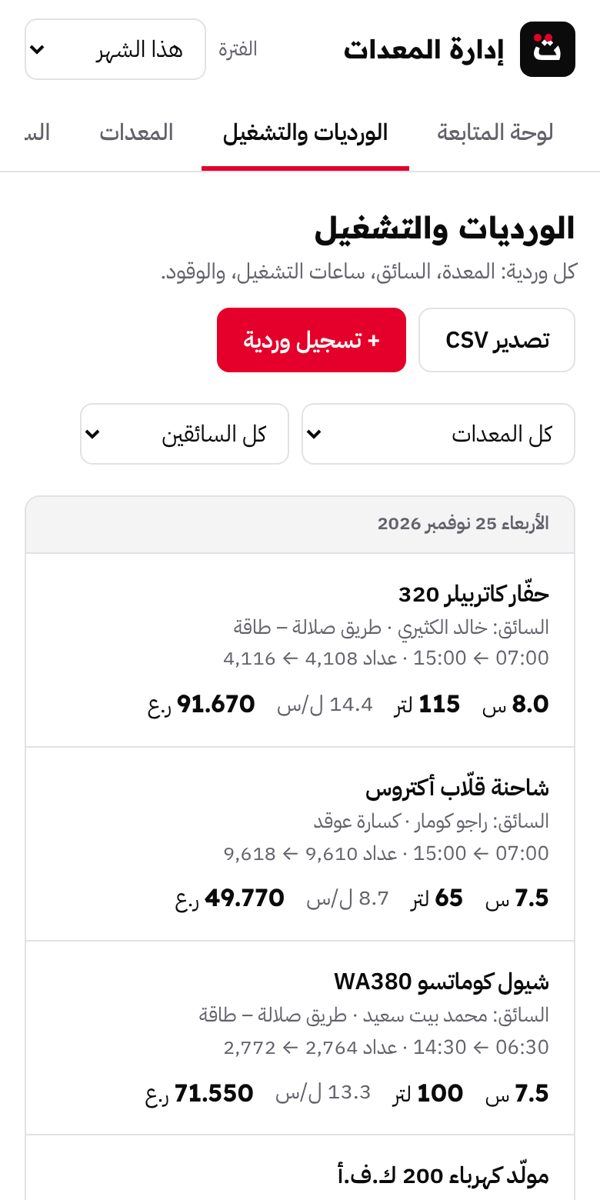
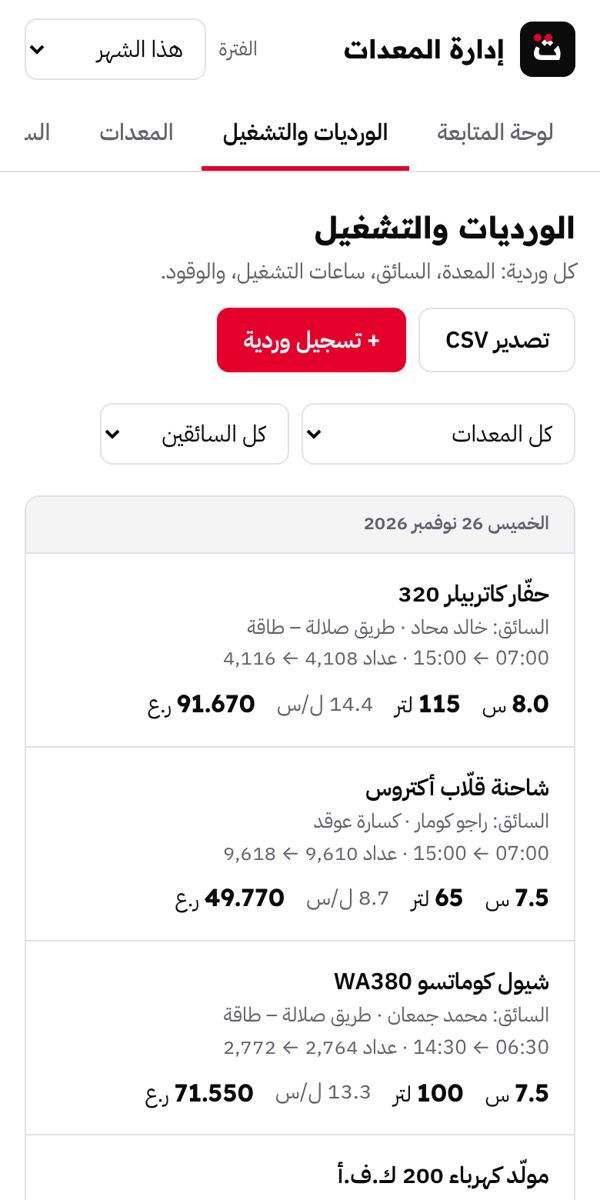
«أعمالنا»: صورة توضيحية للمساعد الذكي، وتعديل أسماء السائقين (#20)
* Show the Smart Employee Assistant as a description only

Claude-Session: https://claude.ai/code/session_01PV9wLXex1DPAYEeMsAfiQh

* Illustrate the Smart Employee Assistant with employee messages and AI analysis

Claude-Session: https://claude.ai/code/session_01PV9wLXex1DPAYEeMsAfiQh

* Update driver names in the equipment screenshot

Claude-Session: https://claude.ai/code/session_01PV9wLXex1DPAYEeMsAfiQh

---------

diff --git a/index.html b/index.html
@@ -275,6 +275,20 @@ footer{border-top:1px solid var(--rule);font-size:14px;color:var(--grey);padding
 .wk-visit{align-self:flex-start;margin-top:6px;font-weight:600;color:var(--red);text-decoration:none}
 .wk-visit:hover{text-decoration:underline}
 .wk-visit:focus-visible{outline:3px solid var(--red);outline-offset:3px}
+.wk-art{line-height:0;border-radius:12px;overflow:hidden;box-shadow:0 16px 36px rgba(0,0,0,.14)}
+.wk-art svg{display:block;width:100%;height:auto;direction:ltr}
+.wk-art text{font-family:"IBM Plex Sans Arabic",system-ui,sans-serif}
+.wk-art .ia-tag{font-size:13px;font-weight:600;fill:#ff5a76}
+.wk-art .ia-who{font-size:12px;fill:#8b8b93}
+.wk-art .ia-txt{font-size:15px;font-weight:500;fill:#f2f2f3}
+.wk-art .ia-ai{font-family:"Readex Pro",sans-serif;font-size:34px;font-weight:700;fill:#fff}
+.wk-art .ia-cap{font-size:16px;font-weight:600;fill:#f2f2f3}
+.wk-art .ia-sub{font-size:13px;fill:#a3a3ab}
+.wk-art .ia-card-t{font-size:15px;font-weight:700;fill:#0b0b0c}
+.wk-art .ia-card-w{font-size:15px;font-weight:700;fill:#f2f2f3}
+.wk-art .ia-ok{font-size:11px;font-weight:600;fill:#1f8a4c}
+.wk-art .ia-k{font-size:12px;font-weight:600;fill:#a3a3ab}
+.wk-art .ia-dl{font-size:13px;font-weight:600;fill:#ff5a76}
 .work-cap{margin:8px 0 0;font-size:14px;color:var(--grey)}
 @media(max-width:900px){.wk{grid-template-columns:minmax(0,1fr)}}
 @media(max-width:600px){.wk-shots{grid-template-columns:minmax(0,1fr)}.wk-phone{justify-self:center;width:min(240px,66%)}}
@@ -466,12 +480,74 @@ dd{margin-bottom:12px}
           <h3 data-k="wah">مساعد الموظف الذكي</h3>
           <p data-k="wad">يصيغ الخطابات والتعاميم الرسمية، ويحلّل القرارات ويستخرج التكليفات والمهل، بذكاء اصطناعي يعمل داخل شبكة الجهة.</p>
           <ul class="wk-tags"><li data-k="wat1">ذكاء اصطناعي محلي</li><li data-k="wat2">تصدير Word وPDF</li><li data-k="wat3">صلاحيات المستخدمين</li></ul>
-          <div class="wk-thumbs" role="group" aria-label="صور المشروع"><button type="button" class="wk-thumb on" data-src="img/work-assistant-letter.jpg" data-alt="مساعد الموظف الذكي: صياغة خطاب رسمي" aria-pressed="true"><img src="img/work-assistant-letter.jpg" alt="" width="160" height="100" loading="lazy"><span data-k="wac1">صياغة خطاب</span></button><button type="button" class="wk-thumb" data-src="img/work-assistant-decision.jpg" data-alt="مساعد الموظف الذكي: تحليل تعميم واستخراج التكليفات" aria-pressed="false"><img src="img/work-assistant-decision.jpg" alt="" width="160" height="100" loading="lazy"><span data-k="wac2">تحليل قرار</span></button></div>
         </div>
-        <div class="wk-shots">
-          <a class="wk-main" href="img/work-assistant-letter.jpg" target="_blank" rel="noopener"><img src="img/work-assistant-letter.jpg" alt="مساعد الموظف الذكي: صياغة خطاب رسمي" width="1600" height="1000" loading="lazy"></a>
-          <a class="wk-phone" href="img/work-assistant-mob.jpg" target="_blank" rel="noopener"><img src="img/work-assistant-mob.jpg" alt="مساعد الموظف الذكي على الجوال" width="600" height="1200" loading="lazy"></a>
-        </div>
+        <div class="wk-art"><svg viewBox="0 0 800 480" role="img" aria-label="رسائل الموظفين تصل إلى ذكاء تجتك داخل شبكة الجهة، فيصيغ خطاباً رسمياً ويحلّل التعميم إلى ملخص وتكليفات ومهلة">
+            <rect width="800" height="480" rx="18" fill="#0e0e10"/>
+            <rect x="14" y="14" width="772" height="452" rx="14" fill="none" stroke="#e4002b" stroke-opacity=".45" stroke-width="1.5" stroke-dasharray="5 6"/>
+            <g transform="translate(744 26)"><rect x="-6" y="0" width="16" height="12" rx="2" fill="#e4002b"/><path d="M-3 0v-4a5 5 0 0 1 10 0v4" fill="none" stroke="#e4002b" stroke-width="2"/></g>
+            <text x="726" y="38" text-anchor="end" class="ia-tag">داخل شبكة الجهة · دون إنترنت</text>
+            <!-- employee messages -->
+            <g class="ia-msg">
+              <circle cx="752" cy="104" r="16" fill="#2c2c31"/><circle cx="752" cy="99" r="5" fill="#8b8b93"/><path d="M742 113a10 8 0 0 1 20 0" fill="#8b8b93"/>
+              <rect x="476" y="72" width="256" height="64" rx="14" fill="#1f1f23"/>
+              <text x="716" y="96" text-anchor="end" class="ia-who">موظف · الموارد البشرية</text>
+              <text x="716" y="122" text-anchor="end" class="ia-txt">اكتب خطاباً بطلب إجازة أسبوع</text>
+            </g>
+            <g class="ia-msg">
+              <circle cx="752" cy="190" r="16" fill="#2c2c31"/><circle cx="752" cy="185" r="5" fill="#8b8b93"/><path d="M742 199a10 8 0 0 1 20 0" fill="#8b8b93"/>
+              <rect x="476" y="158" width="256" height="64" rx="14" fill="#1f1f23"/>
+              <text x="716" y="182" text-anchor="end" class="ia-who">موظفة · الشؤون الإدارية</text>
+              <text x="716" y="208" text-anchor="end" class="ia-txt">حلّل تعميم استخدام البريد</text>
+            </g>
+            <g class="ia-msg">
+              <circle cx="752" cy="276" r="16" fill="#2c2c31"/><circle cx="752" cy="271" r="5" fill="#8b8b93"/><path d="M742 285a10 8 0 0 1 20 0" fill="#8b8b93"/>
+              <rect x="476" y="244" width="256" height="64" rx="14" fill="#1f1f23"/>
+              <text x="716" y="268" text-anchor="end" class="ia-who">مشرف القسم</text>
+              <text x="716" y="294" text-anchor="end" class="ia-txt">جهّز دعوة اجتماع ليوم الأحد</text>
+            </g>
+            <!-- flow lines -->
+            <g fill="none" stroke="#e4002b" stroke-width="2" stroke-dasharray="2 7" stroke-linecap="round">
+              <path d="M476 104 C440 104 450 190 426 196"/><path d="M476 190 L428 200"/><path d="M476 276 C440 276 450 210 426 206"/>
+              <path d="M330 196 C300 196 300 130 282 130"/><path d="M330 206 C300 206 300 320 282 320"/>
+            </g>
+            <!-- AI node -->
+            <circle cx="378" cy="201" r="72" fill="#e4002b" fill-opacity=".12"/>
+            <circle cx="378" cy="201" r="52" fill="#e4002b"/>
+            <text x="378" y="213" text-anchor="middle" class="ia-ai">AI</text>
+            <path d="M412 156l4 10 10 4-10 4-4 10-4-10-10-4 10-4z" fill="#fff"/>
+            <text x="378" y="300" text-anchor="middle" class="ia-cap">ذكاء تجتك يفهم الطلب</text>
+            <text x="378" y="322" text-anchor="middle" class="ia-sub">ويجهّز النتيجة في ثوانٍ</text>
+            <!-- output 1: formal letter -->
+            <g>
+              <rect x="40" y="62" width="242" height="140" rx="10" fill="#f4f4f5"/>
+              <rect x="40" y="62" width="242" height="5" rx="2" fill="#e4002b"/>
+              <g transform="translate(250 82)"><path d="M0 0h12l6 6v16H0z" fill="none" stroke="#e4002b" stroke-width="2" stroke-linejoin="round"/><path d="M4 11h10M4 16h7" stroke="#e4002b" stroke-width="2" stroke-linecap="round"/></g>
+              <text x="242" y="98" text-anchor="end" class="ia-card-t">خطاب رسمي</text>
+              <g fill="#c9c9cf"><rect x="120" y="116" width="146" height="6" rx="3"/><rect x="88" y="130" width="178" height="6" rx="3"/><rect x="104" y="144" width="162" height="6" rx="3"/><rect x="150" y="158" width="116" height="6" rx="3"/></g>
+              <circle cx="78" cy="172" r="15" fill="none" stroke="#e4002b" stroke-width="2.5"/><circle cx="78" cy="172" r="9" fill="none" stroke="#e4002b" stroke-width="1.2" stroke-dasharray="2 3"/>
+              <rect x="168" y="176" width="98" height="18" rx="9" fill="#e3f4ea"/><text x="258" y="189" text-anchor="end" class="ia-ok">Word · PDF ✓</text>
+            </g>
+            <!-- output 2: decision analysis -->
+            <g>
+              <rect x="40" y="222" width="242" height="200" rx="10" fill="#1f1f23" stroke="#2c2c31"/>
+              <text x="266" y="250" text-anchor="end" class="ia-card-w">تحليل التعميم</text>
+              <text x="266" y="276" text-anchor="end" class="ia-k">الملخص</text>
+              <g fill="#3a3a41"><rect x="96" y="284" width="170" height="6" rx="3"/><rect x="132" y="296" width="134" height="6" rx="3"/></g>
+              <text x="266" y="326" text-anchor="end" class="ia-k">التكليفات</text>
+              <g fill="#3ecf7d"><circle cx="258" cy="340" r="6"/><circle cx="258" cy="358" r="6"/><circle cx="258" cy="376" r="6"/></g>
+              <g stroke="#0e0e10" stroke-width="1.8" fill="none" stroke-linecap="round" stroke-linejoin="round"><path d="M255 340l2 2 4-4"/><path d="M255 358l2 2 4-4"/><path d="M255 376l2 2 4-4"/></g>
+              <g fill="#3a3a41"><rect x="120" y="337" width="128" height="6" rx="3"/><rect x="100" y="355" width="148" height="6" rx="3"/><rect x="140" y="373" width="108" height="6" rx="3"/></g>
+              <g transform="translate(258 402)"><circle r="7" fill="none" stroke="#e4002b" stroke-width="2"/><path d="M0-4v4l3 2" stroke="#e4002b" stroke-width="2" fill="none" stroke-linecap="round"/></g>
+              <text x="244" y="407" text-anchor="end" class="ia-dl">المهلة: أسبوع</text>
+            </g>
+            <!-- footer chips -->
+            <g transform="translate(476 352)">
+              <rect width="256" height="96" rx="12" fill="#18181b"/>
+              <text x="240" y="30" text-anchor="end" class="ia-who">ماذا يجهّز</text>
+              <text x="240" y="56" text-anchor="end" class="ia-txt">خطابات · تعاميم · تنبيهات</text>
+              <text x="240" y="80" text-anchor="end" class="ia-txt">دعوات اجتماع · تحليل قرارات</text>
+            </g>
+          </svg></div>
       </article>
       <article class="wk">
         <div class="wk-info">
@@ -497,7 +573,7 @@ dd{margin-bottom:12px}
         </div>
         <div class="wk-shots">
           <a class="wk-main" href="img/equip-desk.jpg" target="_blank" rel="noopener"><img src="img/equip-desk.jpg" alt="نظام إدارة المعدات: لوحة المتابعة" width="1600" height="1000" loading="lazy"></a>
-          <a class="wk-phone" href="img/equip-mob.jpg" target="_blank" rel="noopener"><img src="img/equip-mob.jpg" alt="نظام إدارة المعدات على الجوال: سجل الورديات" width="600" height="1200" loading="lazy"></a>
+          <a class="wk-phone" href="img/equip-mob.jpg?v=2" target="_blank" rel="noopener"><img src="img/equip-mob.jpg?v=2" alt="نظام إدارة المعدات على الجوال: سجل الورديات" width="600" height="1200" loading="lazy"></a>
         </div>
       </article>
       <article class="wk">
@@ -780,7 +856,7 @@ dd{margin-bottom:12px}
       </div>
       <div class="eqp-shots">
         <figure class="eqp-desk"><img src="img/equip-desk.jpg" width="1600" height="1000" alt="لوحة متابعة نظام إدارة المعدات: ساعات التشغيل والوقود والتكلفة" loading="lazy"></figure>
-        <figure class="eqp-mob"><img src="img/equip-mob.jpg" width="600" height="1200" alt="سجل الورديات على الجوال" loading="lazy"></figure>
+        <figure class="eqp-mob"><img src="img/equip-mob.jpg?v=2" width="600" height="1200" alt="سجل الورديات على الجوال" loading="lazy"></figure>
       </div>
       <p class="eqp-cap" data-k="q4">صور من النظام ببيانات تجريبية.</p>
     </div>
@@ -905,7 +981,7 @@ s2t:"Use it from the browser",s2d:"Employees open it from any browser on the int
 s3t:"Draft, review, archive",s3d:"The employee writes a request, gets a formal draft, checks it against circulars, then archives it.",
 t0:"Where we are",
 t1:"A working version of the system has been approved for deployment at a government entity in Oman. We are now preparing to offer it to ministries, public authorities and large companies in Oman and the GCC.",
-g0:"Other services",g1:"Digital solutions for organizations",g2:"We build an organization's internal systems, AI included.",g9:"Request a consultation",g3t:"Management and accounting systems",g3d:"We develop your existing systems, or build new management and accounting systems designed for your organization and running on its internal network.",g31:"Improving existing systems",g32:"Building new systems",g33:"Accounts and invoicing",g34:"Requests, follow-up and archiving",g35:"Reports and permissions",g4t:"Database design and organization",g4d:"So the organization's data is ready for search, reporting and AI.",g41:"Tables and relationships",g42:"Data migration and cleanup",g43:"Backup and protection",g5t:"Official websites and platforms",g5d:"Company websites and internal portals for government entities and businesses.",g51:"Bilingual websites",g52:"Mobile-friendly",g53:"Domain and official email setup",g6t:"Technical support and maintenance",g6d:"We stay with your systems after delivery: ongoing maintenance and updates, staff training, and issue follow-up until resolved.",g61:"Maintenance and updates",g62:"Staff training",g63:"Issue follow-up and resolution",g7b:"For companies without an IT department",g7t:"Accounts and systems management",g7d:"We act as your company's IT department: we manage and continuously monitor your accounts, systems and devices, so you can focus on your business while we take care of the technology.",g7l1:"Local Omani management",g7l2:"An Omani team close to you, with a clear service agreement that guarantees the agreed level of support.",g71:"User accounts and official email",g72:"Permissions and passwords",g73:"Systems and device monitoring",g74:"Backup and data recovery",g75:"Licenses and subscriptions",g76:"Remote and on-site support",g8:"Our work includes the Smart Employee Assistant, the Mukhattat land platform, the equipment management system and this website.",f11:"Other services",m0:"Our next project",m9:"In development",m1h:"An Omani AI model",m2h:"We are building our own language model that understands formal Arabic and the style of Omani government correspondence, fully independent of any other AI model.",m1t:"Formal Omani language",m1d:"Trained on the style of letters, circulars and decisions used by Omani entities, and their administrative terminology.",m2t:"Full independence",m2d:"A model we fully own, relying on no external AI model or service.",m3t:"Data sovereignty",m3d:"Trained and run inside the Sultanate of Oman, so entities' data stays in the country.",m4t:"Built for government",m4d:"Runs on the entity's own servers with no internet, and integrates with the Smart Employee Assistant.",r0:"Roadmap",r1a:"Today",r1t:"Smart Employee Assistant",r1d:"Runs today on an open-source language model inside the entity's network.",r2a:"Next stage",r2t:"Adapting the model",r2d:"Training it on Omani official correspondence and its terminology.",r3a:"The goal",r3t:"An independent Omani model",r3d:"A model we fully own, built and run inside the Sultanate of Oman.",f12:"The Omani model",p3s:"In development",p3t:"Amin · Point of sale",p3g:"Discover Amin →",am0:"Product three",am9:"In development",am1:"Amin · Point of sale system",am2:"An Arabic point-of-sale system that links every sale to its invoice, inventory and reports in one place. Built for shops, restaurants, cafés and multi-branch businesses.",a1t:"Sell from any device",a1d:"Phone, tablet or computer, with a simple Arabic interface.",a2t:"An invoice for every sale",a2d:"Printed or digital invoices via WhatsApp or email, with VAT calculated.",a3t:"Inventory management",a3d:"Track stock in real time, with alerts when items run low.",a4t:"Sales reports",a4d:"Daily and monthly, by item, employee and branch, with permissions for each employee.",a5t:"Loyalty card",a5d:"A customer register with names and phone numbers that adds points to each customer automatically with every purchase, redeemable for discounts.",a6t:"Works offline",a6d:"Keep selling when the connection drops; data syncs when it returns.",am3:"Simplified tax invoice · #1024",am4:"Subtotal",am5:"VAT 5%",am6:"Total (OMR)",am7:"✓ Invoice sent via WhatsApp",am8:"Illustrative example",am10:"Customer:",am11:"Salem",am12:"points",am13:"balance",f13:"Amin · Point of sale",p4s:"Available now",p4t:"Equipment management system",p4d:"Operating hours, shifts and drivers, plus fuel use, costs and maintenance dates for every machine.",p4g:"Discover the system →",q0:"Product four · Available now",q1:"Equipment management system",q2:"Log each machine's shift with the driver's name, start and end time and meter reading, and the system works out operating hours, fuel consumption and cost, and alerts you before maintenance is due.",q4:"Screenshots of the system with sample data.",f14:"Equipment management",p3d:"Point of sale linked to invoices, inventory, production and reports, for shops, restaurants and branches.",a7t:"Stock transfers",a7d:"Move items between warehouses and branches, with a log of every transfer and quantities updated automatically.",a8t:"Production and recipes",a8d:"Set each product's ingredients and their cost, and the system calculates cost, profit margin and how many units you can produce.",rc0:"Production and recipes",rc1:"Example: one Margherita pizza recipe",rc2:"Illustrative example",rch1:"Ingredient",rch2:"Per pizza",rch3:"Cost (OMR)",rch4:"Enough for",rcav:"In stock:",rcr1:"Dough",rcr1q:"250 g",rcr1a:"12 kg",rcr2:"Tomato sauce",rcr2q:"80 g",rcr2a:"4 kg",rcr3:"Mozzarella",rcr3q:"150 g",rcr3a:"6 kg",rcr4:"Oil and herbs",rcr4q:"15 ml",rcr4a:"1.5 L",rcr5:"Pizza box",rcs1:"Cost per pizza",rcs2:"Selling price",rcs3:"Profit margin",rcs4:"Can produce",rcs5:"pizzas",rcu:"OMR",rcu2:"OMR",rc3:"Here, mozzarella is the ingredient that limits production. With every sale, ingredients are deducted from stock automatically.",wk0:"Our work",wk1:"Systems we built that run today",wk2:"Real screenshots from systems TGTEC designed and developed, from idea to operation.",wk3:"Screenshots show sample data. Tap any image to enlarge it.",wah:"Smart Employee Assistant",wad:"Drafts official letters and circulars, and analyzes decisions to extract tasks and deadlines, with AI that runs inside the organization's network.",wat1:"Local AI",wat2:"Word and PDF export",wat3:"User permissions",wac1:"Drafting a letter",wac2:"Analyzing a decision",wlh:"Mukhattat · The Omani land market",wld:"A platform for buying and selling land in Oman: buyers search by governorate, wilayat, plan and block, see each plot's real boundaries on the map from its survey sketch coordinates, and contact the owner or real estate office directly.",wlt1:"Maps and sketch coordinates",wlt2:"Sketch upload and boundary extraction",wlt3:"Works on phones",wlc1:"Searching for land",wlc2:"List your land",wlv:"Visit the site →",weh:"Equipment management system",wed:"Operating hours, shifts and drivers, plus fuel use, costs and maintenance dates for every machine, with users and permissions.",wet1:"Runs on Cloudflare",wet2:"Users and permissions",wet3:"Reports and CSV export",wsh:"The TGTEC website, tgtec.om",wsd:"The company's official website in Arabic and English, with direct WhatsApp contact, built for phones.",wst1:"Bilingual",wst2:"Mobile-friendly",wst3:"Domain and email setup",f15:"Our work",k0:"Contact",kw:"WhatsApp",kx:"Chat on WhatsApp",k1:"Chairman & CEO",k7:"Company",k8:"Tajalla Trading & Contracting",k9:"Technology brand",v0:"A word from the CEO",v1:"My vision",v2:"Mohammed Ahmed Al-Mashani",v3:"Chairman & CEO",v7:"Curriculum vitae →",v4:"I believe AI should serve people without taking their data. TGTEC began with a need I lived myself: long hours spent drafting and reviewing correspondence, time that could go to what matters more.",v5:"My vision is for TGTEC to be the Omani partner that government entities and companies across Oman and the Gulf trust, with Arabic solutions that run inside their own networks, keep their data confidential and give employees their time back.",v8:"And we are moving toward our biggest goal: an Omani AI model that we fully own, fluent in formal Arabic and the style of Omani government correspondence, and fully independent of any other model.",v6:"We are building it with Omani hands, as a contribution to the digital transformation of Oman Vision 2040.",k2:"Mohammed Ahmed Al-Mashani",k3:"Location",k6:"✉ Email us",k4:"Dhofar, Sultanate of Oman",
+g0:"Other services",g1:"Digital solutions for organizations",g2:"We build an organization's internal systems, AI included.",g9:"Request a consultation",g3t:"Management and accounting systems",g3d:"We develop your existing systems, or build new management and accounting systems designed for your organization and running on its internal network.",g31:"Improving existing systems",g32:"Building new systems",g33:"Accounts and invoicing",g34:"Requests, follow-up and archiving",g35:"Reports and permissions",g4t:"Database design and organization",g4d:"So the organization's data is ready for search, reporting and AI.",g41:"Tables and relationships",g42:"Data migration and cleanup",g43:"Backup and protection",g5t:"Official websites and platforms",g5d:"Company websites and internal portals for government entities and businesses.",g51:"Bilingual websites",g52:"Mobile-friendly",g53:"Domain and official email setup",g6t:"Technical support and maintenance",g6d:"We stay with your systems after delivery: ongoing maintenance and updates, staff training, and issue follow-up until resolved.",g61:"Maintenance and updates",g62:"Staff training",g63:"Issue follow-up and resolution",g7b:"For companies without an IT department",g7t:"Accounts and systems management",g7d:"We act as your company's IT department: we manage and continuously monitor your accounts, systems and devices, so you can focus on your business while we take care of the technology.",g7l1:"Local Omani management",g7l2:"An Omani team close to you, with a clear service agreement that guarantees the agreed level of support.",g71:"User accounts and official email",g72:"Permissions and passwords",g73:"Systems and device monitoring",g74:"Backup and data recovery",g75:"Licenses and subscriptions",g76:"Remote and on-site support",g8:"Our work includes the Smart Employee Assistant, the Mukhattat land platform, the equipment management system and this website.",f11:"Other services",m0:"Our next project",m9:"In development",m1h:"An Omani AI model",m2h:"We are building our own language model that understands formal Arabic and the style of Omani government correspondence, fully independent of any other AI model.",m1t:"Formal Omani language",m1d:"Trained on the style of letters, circulars and decisions used by Omani entities, and their administrative terminology.",m2t:"Full independence",m2d:"A model we fully own, relying on no external AI model or service.",m3t:"Data sovereignty",m3d:"Trained and run inside the Sultanate of Oman, so entities' data stays in the country.",m4t:"Built for government",m4d:"Runs on the entity's own servers with no internet, and integrates with the Smart Employee Assistant.",r0:"Roadmap",r1a:"Today",r1t:"Smart Employee Assistant",r1d:"Runs today on an open-source language model inside the entity's network.",r2a:"Next stage",r2t:"Adapting the model",r2d:"Training it on Omani official correspondence and its terminology.",r3a:"The goal",r3t:"An independent Omani model",r3d:"A model we fully own, built and run inside the Sultanate of Oman.",f12:"The Omani model",p3s:"In development",p3t:"Amin · Point of sale",p3g:"Discover Amin →",am0:"Product three",am9:"In development",am1:"Amin · Point of sale system",am2:"An Arabic point-of-sale system that links every sale to its invoice, inventory and reports in one place. Built for shops, restaurants, cafés and multi-branch businesses.",a1t:"Sell from any device",a1d:"Phone, tablet or computer, with a simple Arabic interface.",a2t:"An invoice for every sale",a2d:"Printed or digital invoices via WhatsApp or email, with VAT calculated.",a3t:"Inventory management",a3d:"Track stock in real time, with alerts when items run low.",a4t:"Sales reports",a4d:"Daily and monthly, by item, employee and branch, with permissions for each employee.",a5t:"Loyalty card",a5d:"A customer register with names and phone numbers that adds points to each customer automatically with every purchase, redeemable for discounts.",a6t:"Works offline",a6d:"Keep selling when the connection drops; data syncs when it returns.",am3:"Simplified tax invoice · #1024",am4:"Subtotal",am5:"VAT 5%",am6:"Total (OMR)",am7:"✓ Invoice sent via WhatsApp",am8:"Illustrative example",am10:"Customer:",am11:"Salem",am12:"points",am13:"balance",f13:"Amin · Point of sale",p4s:"Available now",p4t:"Equipment management system",p4d:"Operating hours, shifts and drivers, plus fuel use, costs and maintenance dates for every machine.",p4g:"Discover the system →",q0:"Product four · Available now",q1:"Equipment management system",q2:"Log each machine's shift with the driver's name, start and end time and meter reading, and the system works out operating hours, fuel consumption and cost, and alerts you before maintenance is due.",q4:"Screenshots of the system with sample data.",f14:"Equipment management",p3d:"Point of sale linked to invoices, inventory, production and reports, for shops, restaurants and branches.",a7t:"Stock transfers",a7d:"Move items between warehouses and branches, with a log of every transfer and quantities updated automatically.",a8t:"Production and recipes",a8d:"Set each product's ingredients and their cost, and the system calculates cost, profit margin and how many units you can produce.",rc0:"Production and recipes",rc1:"Example: one Margherita pizza recipe",rc2:"Illustrative example",rch1:"Ingredient",rch2:"Per pizza",rch3:"Cost (OMR)",rch4:"Enough for",rcav:"In stock:",rcr1:"Dough",rcr1q:"250 g",rcr1a:"12 kg",rcr2:"Tomato sauce",rcr2q:"80 g",rcr2a:"4 kg",rcr3:"Mozzarella",rcr3q:"150 g",rcr3a:"6 kg",rcr4:"Oil and herbs",rcr4q:"15 ml",rcr4a:"1.5 L",rcr5:"Pizza box",rcs1:"Cost per pizza",rcs2:"Selling price",rcs3:"Profit margin",rcs4:"Can produce",rcs5:"pizzas",rcu:"OMR",rcu2:"OMR",rc3:"Here, mozzarella is the ingredient that limits production. With every sale, ingredients are deducted from stock automatically.",wk0:"Our work",wk1:"Systems we built that run today",wk2:"Real screenshots from systems TGTEC designed and developed, from idea to operation.",wk3:"Screenshots show sample data. Tap any image to enlarge it.",wah:"Smart Employee Assistant",wad:"Drafts official letters and circulars, and analyzes decisions to extract tasks and deadlines, with AI that runs inside the organization's network.",wat1:"Local AI",wat2:"Word and PDF export",wat3:"User permissions",wlh:"Mukhattat · The Omani land market",wld:"A platform for buying and selling land in Oman: buyers search by governorate, wilayat, plan and block, see each plot's real boundaries on the map from its survey sketch coordinates, and contact the owner or real estate office directly.",wlt1:"Maps and sketch coordinates",wlt2:"Sketch upload and boundary extraction",wlt3:"Works on phones",wlc1:"Searching for land",wlc2:"List your land",wlv:"Visit the site →",weh:"Equipment management system",wed:"Operating hours, shifts and drivers, plus fuel use, costs and maintenance dates for every machine, with users and permissions.",wet1:"Runs on Cloudflare",wet2:"Users and permissions",wet3:"Reports and CSV export",wsh:"The TGTEC website, tgtec.om",wsd:"The company's official website in Arabic and English, with direct WhatsApp contact, built for phones.",wst1:"Bilingual",wst2:"Mobile-friendly",wst3:"Domain and email setup",f15:"Our work",k0:"Contact",kw:"WhatsApp",kx:"Chat on WhatsApp",k1:"Chairman & CEO",k7:"Company",k8:"Tajalla Trading & Contracting",k9:"Technology brand",v0:"A word from the CEO",v1:"My vision",v2:"Mohammed Ahmed Al-Mashani",v3:"Chairman & CEO",v7:"Curriculum vitae →",v4:"I believe AI should serve people without taking their data. TGTEC began with a need I lived myself: long hours spent drafting and reviewing correspondence, time that could go to what matters more.",v5:"My vision is for TGTEC to be the Omani partner that government entities and companies across Oman and the Gulf trust, with Arabic solutions that run inside their own networks, keep their data confidential and give employees their time back.",v8:"And we are moving toward our biggest goal: an Omani AI model that we fully own, fluent in formal Arabic and the style of Omani government correspondence, and fully independent of any other model.",v6:"We are building it with Omani hands, as a contribution to the digital transformation of Oman Vision 2040.",k2:"Mohammed Ahmed Al-Mashani",k3:"Location",k6:"✉ Email us",k4:"Dhofar, Sultanate of Oman",
 ft:"© 2026 Tajalla Trading & Contracting. All rights reserved."
 };
 const els=[...document.querySelectorAll('[data-k]')];
